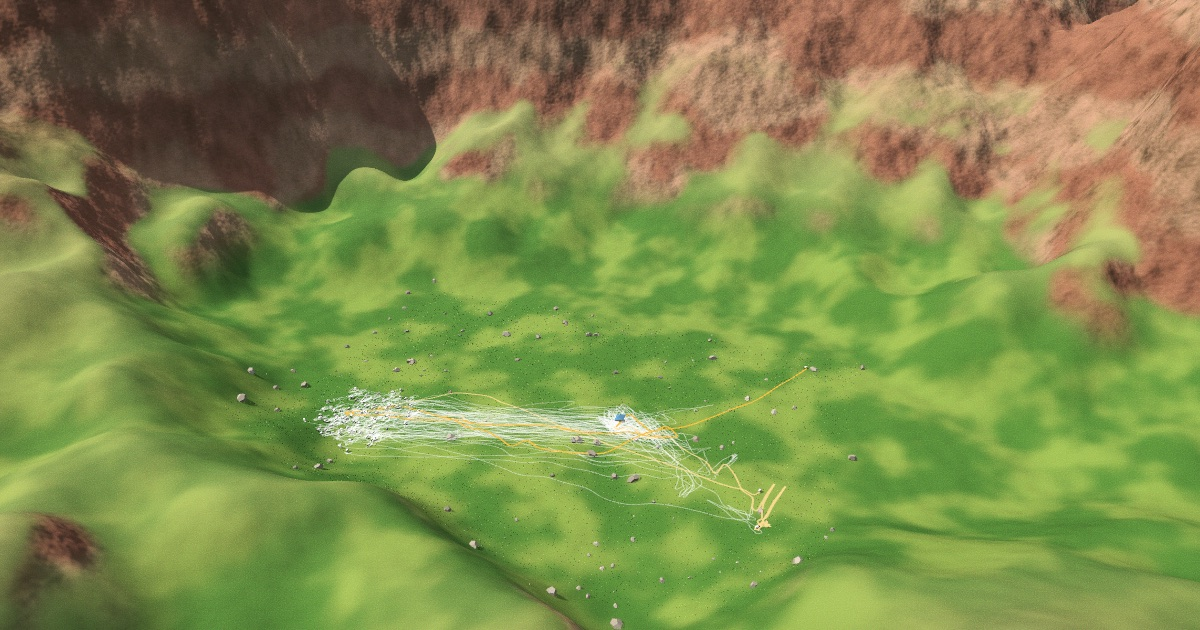
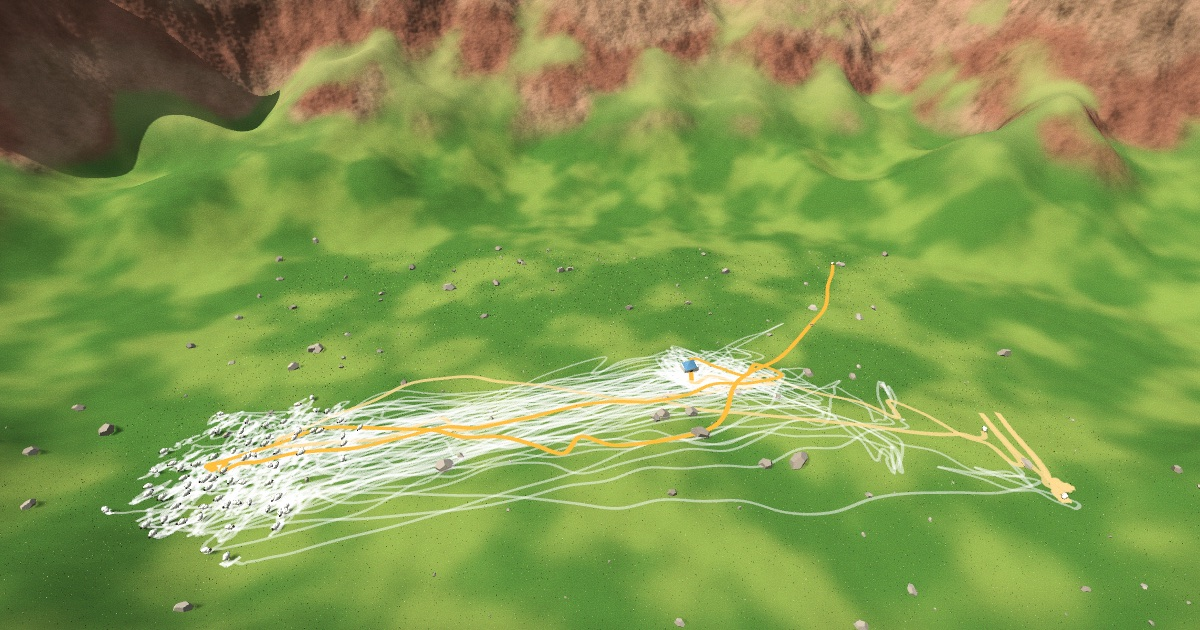
Share image framed on the trails: every path and the hut across 70% of the width
The share image no longer reuses the home page's final shot. In ?og mode the page fits its own camera: looking north
over the meadow through a 60-degree lens, at the distance where experiment 01's 80 paths plus the hut fill 70% of the
1200px width, with the paths' top edge 42% down so the ridge shows along the top (pitch 29 degrees, chosen by
trying eight directions and several lenses). All three gold strays are in frame. Trails are drawn 1.7x wider for
this render only (2.2px white, 4px gold; 1.3px and 2.4px at normal width). world.js gains trailWidth (default 1).
The home page itself is pixel-identical.

diff --git a/docs/index.html b/docs/index.html
@@ -523,11 +523,42 @@ if (/[?&]og\b/.test(location.search)) document.documentElement.classList.add('og
   var still = matchMedia('(prefers-reduced-motion: reduce)').matches;
   var narrow = innerWidth < 700;  // world.js widens the lens below 700px too
   var og = document.documentElement.classList.contains('og');  // the share image: the last frame (scripts/og_image.sh)
+  var OG_FOV = 60, OG_TRAIL = 1.7;  // the share image's lens, and its trails drawn thicker so they're over 2px at 1200x630
   // With reduced motion, the camera holds still frames: one per story line, at its middle.
   var beats = lines.map(function(l){ return (+l.dataset.a + Math.min(1, +l.dataset.b)) / 2; });
+  // The share image's camera (?og), its own frame rather than the home page's: looking north over the meadow through a
+  // wide lens, close enough that every path and the hut fill 70% of the width, with the paths' top edge 42% of the way
+  // down so the ridge shows along the top. Found by trying directions and lenses; the measurements are in window.ogFit.
+  function ogFrame(lives){
+    var T = THREE, Hh = createValley.terrain.height, hut = createValley.hut, pts = [new T.Vector3(hut[0], Hh(hut[0], hut[1]), hut[1])];
+    lives.forEach(function(L){ L.points.forEach(function(q){ pts.push(new T.Vector3(q[0], Hh(q[0], q[1]) + .5, q[1])); }); });
+    var lo = [1e9, 1e9], hi = [-1e9, -1e9];
+    pts.forEach(function(v){ lo = [Math.min(lo[0], v.x), Math.min(lo[1], v.z)]; hi = [Math.max(hi[0], v.x), Math.max(hi[1], v.z)]; });
+    var pitch = 29 * Math.PI / 180, WIDTH = .7, TOP = .42;
+    var cx = (lo[0] + hi[0]) / 2, cz = (lo[1] + hi[1]) / 2, dir = new T.Vector3(0, Math.sin(pitch), Math.cos(pitch));
+    var cam = new T.PerspectiveCamera(OG_FOV, innerWidth / innerHeight, .5, 6000), d = 300, lift = 0;
+    function measure(){
+      var look = new T.Vector3(cx, Hh(cx, cz) + lift, cz);
+      cam.position.copy(look).addScaledVector(dir, d); cam.lookAt(look); cam.updateMatrixWorld();
+      var x0 = 1, x1 = -1, y1 = -1, y0 = 1;
+      pts.forEach(function(v){ var p = v.clone().project(cam); x0 = Math.min(x0, p.x); x1 = Math.max(x1, p.x); y0 = Math.min(y0, p.y); y1 = Math.max(y1, p.y); });
+      return {width: (x1 - x0) / 2, top: (1 - y1) / 2, bottom: (1 - y0) / 2, look: look};
+    }
+    for (var pass = 0; pass < 6; pass++) {
+      var a = 50, b = 8000;  // distance: farther when the paths are too wide
+      for (var k = 0; k < 40; k++) { d = (a + b) / 2; if (measure().width > WIDTH) a = d; else b = d; }
+      a = -400; b = 400;     // look height: raising it moves the paths down the frame
+      for (k = 0; k < 40; k++) { lift = (a + b) / 2; if (measure().top < TOP) a = lift; else b = lift; }
+    }
+    var m = measure();
+    window.ogFit = m;
+    var pos = cam.position.toArray(), look = m.look.toArray();
+    return [{p: 0, pos: pos, look: look}, {p: 1, pos: pos, look: look}];
+  }
   fetch('data/positions.json').then(function(r){ if (!r.ok) throw new Error('data/positions.json: ' + r.status); return r.json(); }).then(function(P){
     var g = P.groups.filter(function(x){ return x.id === 'exp01'; })[0];
     var hero = g.lives.map(function(L){ return L.run_id; }).indexOf(heroId);
+    var ogShots = og && ogFrame(g.lives);
     if (hero < 0) throw new Error('the followed life ' + heroId + ' is not in experiment 01');
     var valley = createValley(cv, {
       lives: g.lives.map(function(L){ return {points: L.points, stray: L.stray}; }), hero: hero,
@@ -535,11 +566,13 @@ if (/[?&]og\b/.test(location.search)) document.documentElement.classList.add('og
       ghost: [.29, .36, .6, .68],  // the others fade to ghosts while the camera chases the followed life
       still: still,
       clouds: !og,
+      fov: og ? OG_FOV : undefined,
+      trailWidth: og ? OG_TRAIL : 1,
       chaseSmooth: {weeks: 4, maxTurn: 1},  // the ghost cam faces her way over the last 4 weeks and never swings
       // camera rails: [x, y, z], 'hut', or 'chase' (the ghost cam behind the followed life). The wide shots differ on a
       // narrow screen, looking west along the valley so the field runs up the screen, with the job corner and the strays
       // in frame (checked against the real paths).
-      shots: [
+      shots: ogShots || [
         {p: 0,   pos: [260, 250, 460], look: [-40, narrow ? 340 : 170, -300]},  // tilted up on a phone: the title takes two lines there and needs sky behind both
         {p: .12, pos: [150, 95, 170],  look: 'hut'},
         {p: .27, pos: [78, 26, -38],   look: 'hut'},   // east of the hut, already facing the way she walks when the chase begins

diff --git a/docs/valley/world.js b/docs/valley/world.js
@@ -20,7 +20,8 @@
                                        // its heading while the life stands still (`minMove` units, default 1.5)
      still: false                      // prefers-reduced-motion: no easing toward the scroll position, no sheep animation
      fov: 42                           // optional: the lens's vertical angle in degrees; default 42, or 58 below 700px wide
-     clouds: true                      // false: no clouds (the share image)
+     clouds: true,                     // false: no clouds (the share image)
+     trailWidth: 1                     // trail width multiplier (the share image draws them thicker)
    });
    valley.update(progress)  // per animation frame: scroll progress 0..1 in; eases toward it, renders,
                             // and returns {progress (the eased value), u (life time 0..1), week (the hero's own week)}
@@ -114,6 +115,7 @@ function landMaterial(){
  return landMat;
 }
 
+var HUT_XZ=[10,-20];  // where the hut (the referee) stands
 function createValley(cv,opts){
  var renderer=new T.WebGLRenderer({canvas:cv,antialias:true});
  renderer.setPixelRatio(Math.min(devicePixelRatio,1.75));
@@ -156,7 +158,7 @@ function createValley(cv,opts){
  }
 
  /* ---------- the hut (the referee) ---------- */
- var HUT=new T.Vector3(10,0,-20);HUT.y=H(HUT.x,HUT.z);
+ var HUT=new T.Vector3(HUT_XZ[0],0,HUT_XZ[1]);HUT.y=H(HUT.x,HUT.z);
  var hut=new T.Group();
  var wall=new T.Mesh(new T.BoxGeometry(7,3.2,5),new T.MeshLambertMaterial({color:'#ece6d8'}));wall.position.y=1.6;
  var roof=new T.Mesh(new T.CylinderGeometry(0,5.2,2.4,4,1),new T.MeshLambertMaterial({color:'#4f7fa6'}));roof.rotation.y=Math.PI/4;roof.scale.set(1.05,1,.75);roof.position.y=4.4;
@@ -219,7 +221,7 @@ function createValley(cv,opts){
   var isHero=idx===HERO;
   var m=new T.MeshBasicMaterial({color:isHero?'#ffb938':(L.stray?'#ffd98a':'#ffffff'),transparent:true,opacity:isHero?1:(L.stray?.85:.5),depthWrite:false,side:T.DoubleSide,
    polygonOffset:true,polygonOffsetFactor:-2,polygonOffsetUnits:-2});
-  var mesh=new T.Mesh(ribbon(L,isHero?.6:(L.stray?.6:.32),isHero?.22:.18),m);mesh.renderOrder=isHero?3:2;scene.add(mesh);trails.push(mesh);
+  var tw=opts.trailWidth||1, mesh=new T.Mesh(ribbon(L,(isHero?.6:(L.stray?.6:.32))*tw,isHero?.22:.18),m);mesh.renderOrder=isHero?3:2;scene.add(mesh);trails.push(mesh);
  }
  lives.forEach(addTrail);
 
@@ -329,6 +331,6 @@ function createValley(cv,opts){
  return {update:update,resize:resize,setLives:setLives,setDim:setDim,setShots:function(sh){shots=sh;first=true;},camera:cam,sheepPosition:function(i){return lives[i].mesh.position.clone();},
   cameraAt:function(p){var u=timeAt(p),c=camAt(p,u);return {pos:c[0],look:c[1],hero:hero?lifeAt(hero,u):null,u:u};}};
 }
-createValley.terrain={height:H,wallMask:wallMask}; // for checks that points sit on the valley floor (analysis/positions.py)
+createValley.terrain={height:H,wallMask:wallMask};createValley.hut=HUT_XZ; // for checks that points sit on the valley floor (analysis/positions.py)
 window.createValley=createValley;
 })();
